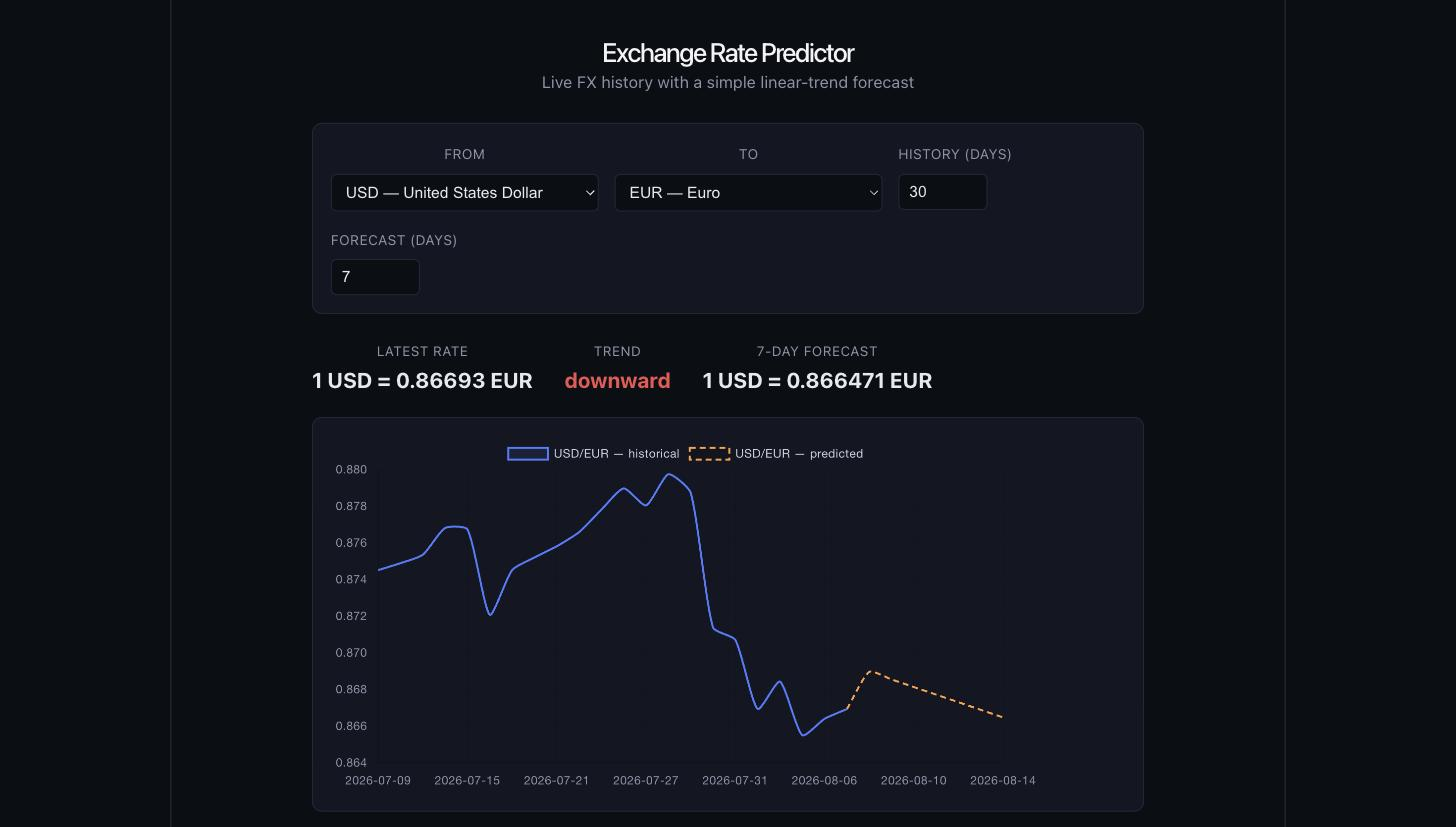
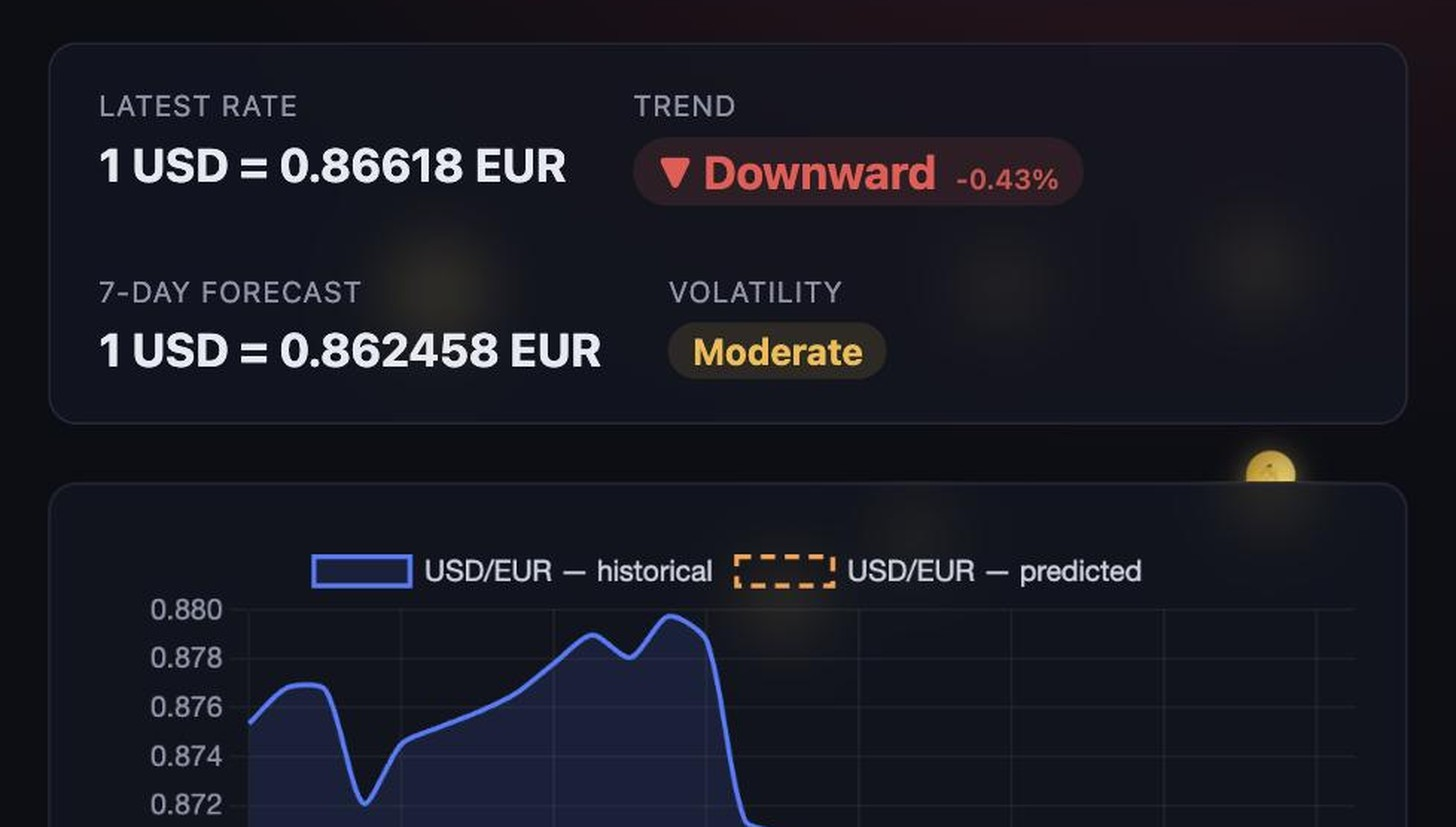
Update Exchange Rate Predictor project screenshot and description
Reflects the new trend/volatility badges, chart, and rule-based
FX recommendations for policymakers, trade businesses, and individuals.

diff --git a/lib/data.ts b/lib/data.ts
@@ -159,7 +159,7 @@ export const projects: Project[] = [
   {
     title: "Exchange Rate Predictor",
     description:
-      "Full-stack web app predicting currency exchange rates, with a React frontend and a Flask backend running a linear-regression trend forecast over live FX history.",
+      "Full-stack web app forecasting currency trends over live FX history, with a Flask backend and a React frontend that surfaces rule-based takeaways for policymakers, exporters/importers, and individuals based on the trend and volatility.",
     stack: ["React.js", "Python", "Flask", "REST API"],
     href: "https://exchange-rate-predictor.vercel.app",
     images: ["/images/projects/exchange-rate-predictor/hero.jpg"],
